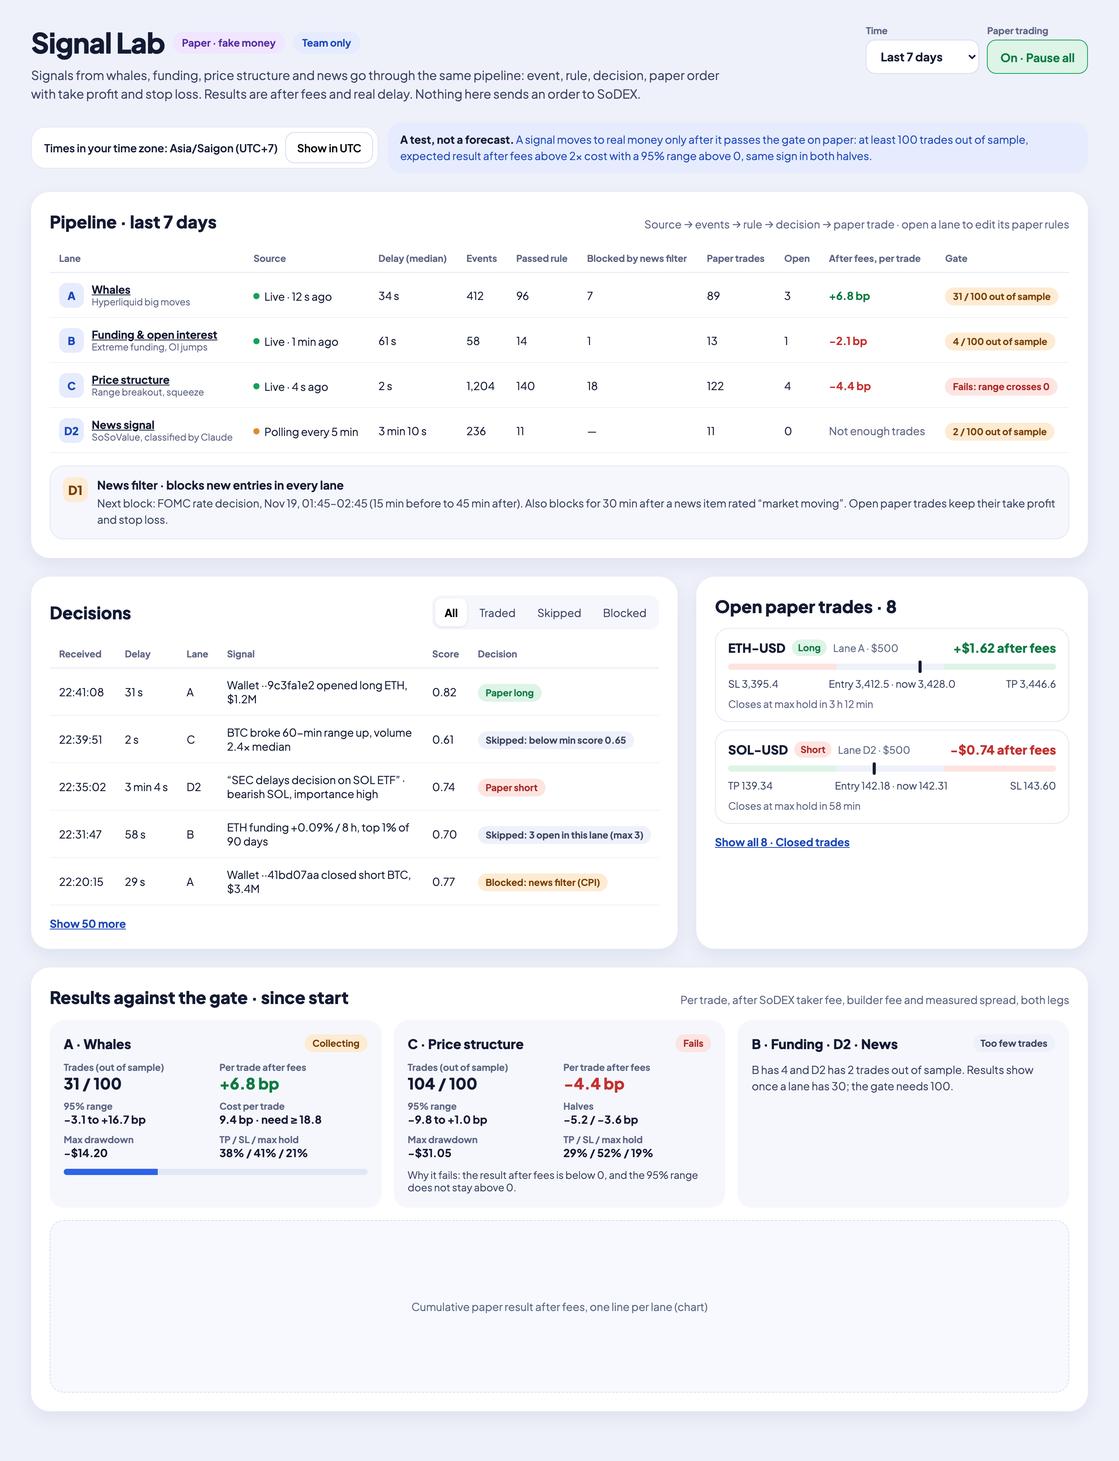
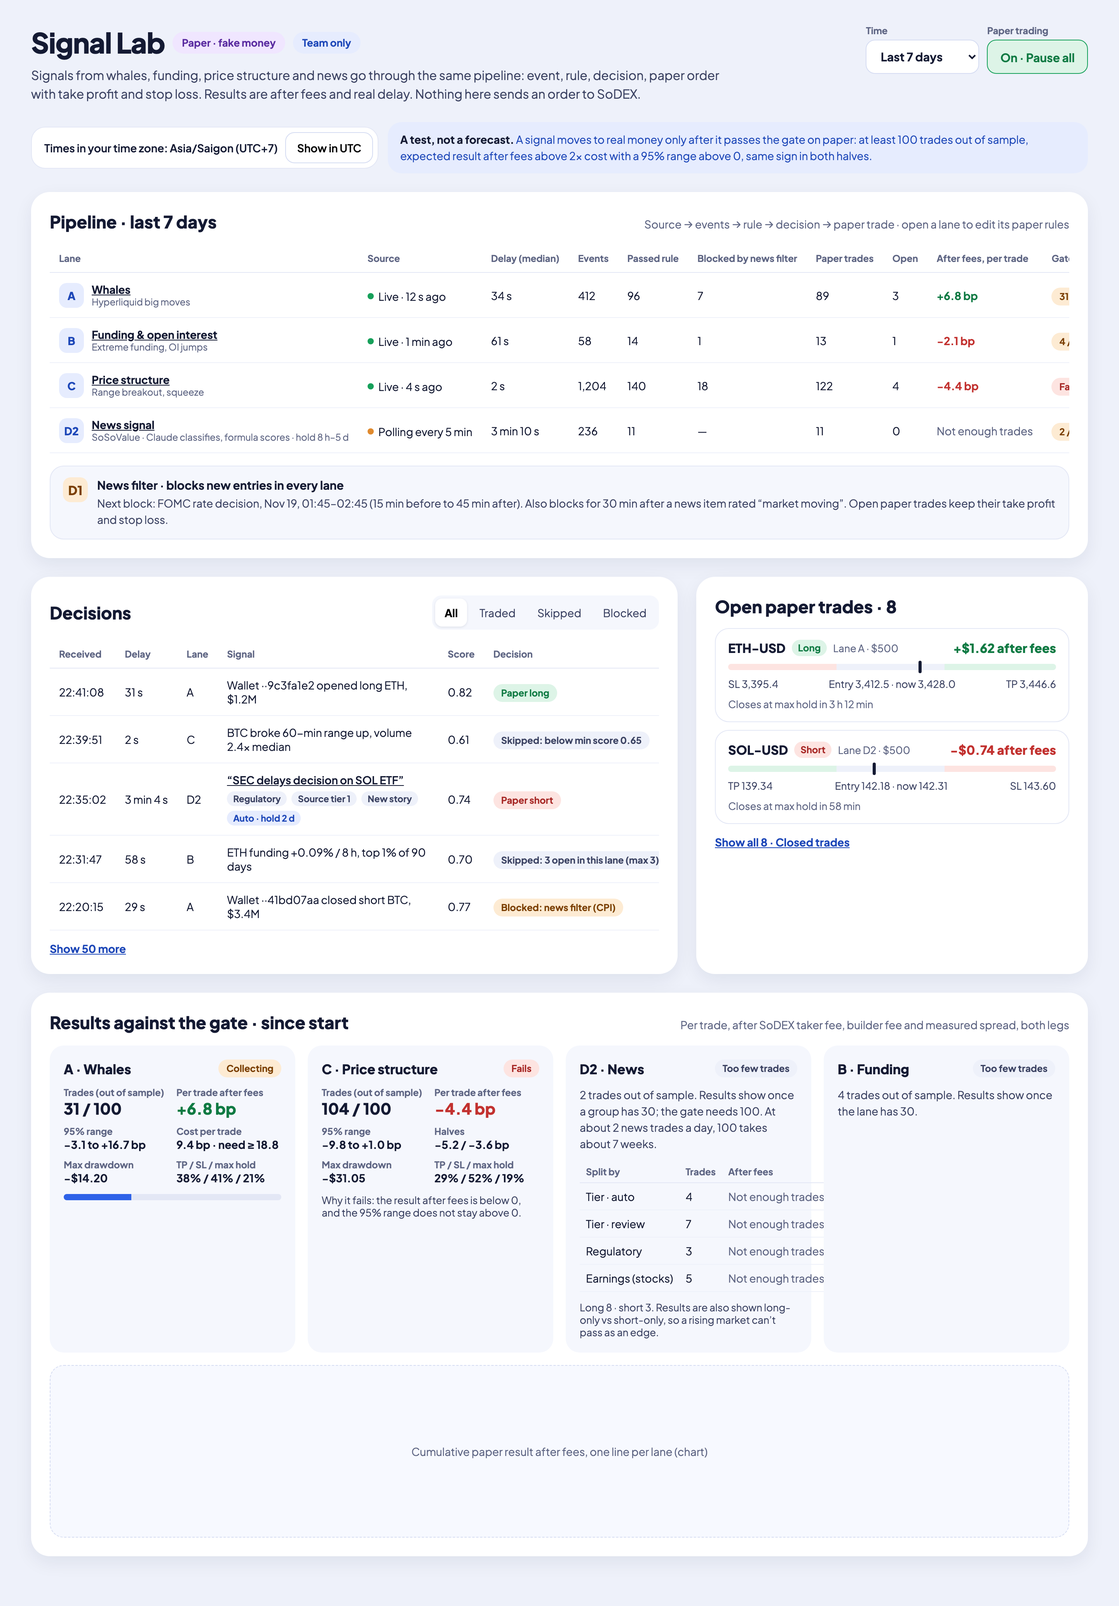
docs(mockups): Signal Lab v2, news lane detail and rules (#269)

diff --git a/docs/mockups/signal-lab/signal-detail.html b/docs/mockups/signal-lab/signal-detail.html
@@ -1,0 +1,117 @@
+<!doctype html>
+<html lang="en">
+<head>
+<meta charset="utf-8">
+<title>News signal detail</title>
+
+</head>
+<body>
+
+
+<link rel="stylesheet" href="https://fonts.googleapis.com/css2?family=Plus+Jakarta+Sans:wght@400;500;600;700;800&amp;display=swap">
+<style>
+body{margin:0}
+a{color:#1d47b8}a:hover{color:#2e62e8}
+table{border-collapse:collapse;width:100%}
+th{font-size:12px;font-weight:700;color:#5f6684;text-align:left;padding:8px 10px;border-bottom:1px solid #e3e7f5}
+td{font-size:14px;padding:10px;border-bottom:1px solid #eef1fa}
+.k{font-size:12px;font-weight:700;color:#5f6684}
+.v{font-size:15px;font-weight:700}
+</style>
+
+<div style="width:1040px;height:1500px;box-sizing:border-box;background:#eef1fa;font-family:'Plus Jakarta Sans',ui-sans-serif,system-ui,sans-serif;color:#141a33;padding:28px;display:flex;flex-direction:column;gap:18px">
+  <div style="display:flex;justify-content:space-between;align-items:flex-start;gap:12px">
+    <div style="display:flex;flex-direction:column;gap:6px">
+      <a href="Main.dc.html" style="font-size:14px;font-weight:700">← Signal Lab</a>
+      <h2 style="margin:0;font-size:26px;font-weight:800;line-height:1.25">“SEC delays decision on SOL ETF”</h2>
+      <div style="display:flex;gap:6px;flex-wrap:wrap">
+        <span style="background:#e6ecfe;color:#1d47b8;font-size:12px;font-weight:700;padding:4px 10px;border-radius:999px">D2 · News</span>
+        <span style="background:#fde4e1;color:#a72826;font-size:12px;font-weight:700;padding:4px 10px;border-radius:999px">Short SOL-USD</span>
+        <span style="background:#e6ecfe;color:#1d47b8;font-size:12px;font-weight:700;padding:4px 10px;border-radius:999px">Tier auto</span>
+        <span style="background:#ddf4e7;color:#0f7a43;font-size:12px;font-weight:700;padding:4px 10px;border-radius:999px">Closed · take profit</span>
+      </div>
+    </div>
+    <div style="text-align:right;display:flex;flex-direction:column;gap:4px">
+      <span class="k">Result after fees</span>
+      <span style="font-size:28px;font-weight:800;color:#0f7a43">+$9.42</span>
+      <span style="font-size:13px;color:#3b4262">+188 bp on $500 · fees and spread −$1.06</span>
+    </div>
+  </div>
+
+  <!-- Timeline -->
+  <section aria-labelledby="tl" style="background:#fff;border-radius:24px;padding:20px;display:flex;flex-direction:column;gap:12px">
+    <h3 id="tl" style="margin:0;font-size:17px;font-weight:800">Timeline</h3>
+    <div style="display:grid;grid-template-columns:repeat(5,minmax(0,1fr));gap:10px">
+      <div style="background:#f5f7fd;border-radius:14px;padding:12px;display:flex;flex-direction:column;gap:4px"><span class="k">News released</span><span class="v">22:31:58</span><span style="font-size:12px;color:#5f6684">SoSoValue · source tier 1</span></div>
+      <div style="background:#f5f7fd;border-radius:14px;padding:12px;display:flex;flex-direction:column;gap:4px"><span class="k">DeskLabs received</span><span class="v">22:35:02</span><span style="font-size:12px;color:#5f6684">Delay 3 min 4 s</span></div>
+      <div style="background:#f5f7fd;border-radius:14px;padding:12px;display:flex;flex-direction:column;gap:4px"><span class="k">Classified</span><span class="v">22:35:05</span><span style="font-size:12px;color:#5f6684">Claude · cached prompt</span></div>
+      <div style="background:#f5f7fd;border-radius:14px;padding:12px;display:flex;flex-direction:column;gap:4px"><span class="k">Paper entry</span><span class="v">22:35:06</span><span style="font-size:12px;color:#5f6684">Short at 142.18, taker</span></div>
+      <div style="background:#f5f7fd;border-radius:14px;padding:12px;display:flex;flex-direction:column;gap:4px"><span class="k">Closed</span><span class="v">Nov 20, 09:12</span><span style="font-size:12px;color:#5f6684">Take profit 139.34 · held 1 d 10 h</span></div>
+    </div>
+    <div style="font-size:14px;color:#3b4262">Sources: <a href="#tl">SoSoValue article</a> · <a href="#tl">original post</a> · story ··a91c (3 articles, this was the first)</div>
+  </section>
+
+  <div style="display:flex;gap:18px;flex-wrap:wrap">
+    <!-- Classification -->
+    <section aria-labelledby="cl" style="flex:1 1 420px;min-width:0;background:#fff;border-radius:24px;padding:20px;display:flex;flex-direction:column;gap:12px">
+      <h3 id="cl" style="margin:0;font-size:17px;font-weight:800">What Claude classified</h3>
+      <span style="font-size:13px;color:#5f6684">Claude only fills these fields. It never decides a trade.</span>
+      <div style="display:grid;grid-template-columns:repeat(2,minmax(0,1fr));gap:12px">
+        <div><div class="k">Asset</div><div class="v">SOL · relevance 1.0</div></div>
+        <div><div class="k">Direction</div><div class="v">Bearish</div></div>
+        <div><div class="k">Catalyst</div><div class="v">Regulatory statement</div></div>
+        <div><div class="k">Severity</div><div class="v">0.80</div></div>
+        <div><div class="k">Clarity</div><div class="v">0.90</div></div>
+        <div><div class="k">Promotional</div><div class="v">0.00</div></div>
+        <div><div class="k">New story</div><div class="v">Yes · 0 similar in 24 h</div></div>
+        <div><div class="k">Conflicts</div><div class="v">None open on SOL</div></div>
+      </div>
+      <div style="background:#f5f7fd;border-radius:14px;padding:12px;font-size:14px;color:#3b4262;line-height:1.5">“The SEC pushed back its decision on spot SOL ETFs. A delay removes a near-term buying catalyst the market had priced in.”</div>
+    </section>
+
+    <!-- Score -->
+    <section aria-labelledby="sc" style="flex:1 1 420px;min-width:0;background:#fff;border-radius:24px;padding:20px;display:flex;flex-direction:column;gap:12px">
+      <h3 id="sc" style="margin:0;font-size:17px;font-weight:800">How the score was computed</h3>
+      <table>
+        <thead><tr><th>Part</th><th>Value</th><th>Weight</th><th>Adds</th></tr></thead>
+        <tbody>
+          <tr><td>Classification confidence</td><td>0.75</td><td>25</td><td>0.19</td></tr>
+          <tr><td>Tradable on SoDEX</td><td>0.90</td><td>20</td><td>0.18</td></tr>
+          <tr><td>Severity</td><td>0.80</td><td>15</td><td>0.12</td></tr>
+          <tr><td>Source tier</td><td>0.95</td><td>12</td><td>0.11</td></tr>
+          <tr><td>Clarity</td><td>0.90</td><td>10</td><td>0.09</td></tr>
+          <tr><td>Catalyst type</td><td>0.60</td><td>10</td><td>0.06</td></tr>
+          <tr><td>Novelty</td><td>1.00</td><td>8</td><td>0.08</td></tr>
+          <tr><td style="font-weight:800">Score</td><td></td><td></td><td style="font-weight:800">0.83</td></tr>
+        </tbody>
+      </table>
+      <div style="font-size:13px;color:#3b4262;line-height:1.5">Tier: <b>auto</b> (score ≥ 0.70). 0.55–0.70 is review, below 0.55 is suppressed. Weights are rule v2 of this lane; the gate counts one version only.</div>
+    </section>
+  </div>
+
+  <!-- Decision and order -->
+  <section aria-labelledby="dc" style="background:#fff;border-radius:24px;padding:20px;display:flex;flex-direction:column;gap:12px">
+    <h3 id="dc" style="margin:0;font-size:17px;font-weight:800">Decision and paper order</h3>
+    <div style="display:grid;grid-template-columns:repeat(6,minmax(0,1fr));gap:12px">
+      <div><div class="k">Decision</div><div class="v">Paper short</div></div>
+      <div><div class="k">Size</div><div class="v">500 USDC</div></div>
+      <div><div class="k">Entry</div><div class="v">142.18</div></div>
+      <div><div class="k">Take profit</div><div class="v">139.34 (−2.0%)</div></div>
+      <div><div class="k">Stop loss</div><div class="v">143.60 (+1.0%)</div></div>
+      <div><div class="k">Max hold</div><div class="v">2 d</div></div>
+    </div>
+    <div style="font-size:13px;color:#3b4262;line-height:1.5">TP and SL come from SOL’s 2-day volatility (TP 1.5×, SL 0.75×), not a fixed %. Checks passed: D1 news filter clear · 1 open in this lane (max 3) · no open SOL trade in another lane.</div>
+    <div aria-hidden="true" style="position:relative;height:10px;border-radius:99px;background:linear-gradient(90deg,#ddf4e7 0 33%,#eef1fa 33% 66%,#fde4e1 66% 100%)"><span style="position:absolute;left:4%;top:-4px;width:4px;height:18px;border-radius:2px;background:#141a33"></span></div>
+    <div style="display:flex;justify-content:space-between;font-size:13px;color:#3b4262"><span>TP 139.34 · closed here</span><span>Entry 142.18</span><span>SL 143.60</span></div>
+    <div style="display:grid;grid-template-columns:repeat(4,minmax(0,1fr));gap:12px;border-top:1px solid #eef1fa;padding-top:12px">
+      <div><div class="k">Best move for us (MFE)</div><div class="v">+2.4%</div></div>
+      <div><div class="k">Worst move against (MAE)</div><div class="v">−0.4%</div></div>
+      <div><div class="k">Same time, random entry</div><div class="v">−0.1% avg</div></div>
+      <div><div class="k">Later news on this story</div><div class="v">2 articles · no new trade</div></div>
+    </div>
+  </section>
+</div>
+
+
+</body>
+</html>

diff --git a/docs/mockups/signal-lab/main.html b/docs/mockups/signal-lab/main.html
@@ -82,7 +82,7 @@ td{font-size:14px;color:#141a33;padding:12px;border-bottom:1px solid #eef1fa;whi
         <td><span style="background:#fde4e1;color:#a72826;font-size:12px;font-weight:700;padding:4px 10px;border-radius:999px">Fails: range crosses 0</span></td>
       </tr>
       <tr>
-        <td><div style="display:flex;gap:10px;align-items:center"><span style="display:inline-flex;width:32px;height:32px;border-radius:10px;background:#e6ecfe;color:#1d47b8;font-weight:800;align-items:center;justify-content:center">D2</span><div><div style="font-weight:700"><a href="Rules.dc.html" style="color:#141a33">News signal</a></div><div style="font-size:12px;color:#5f6684">SoSoValue, classified by Claude</div></div></div></td>
+        <td><div style="display:flex;gap:10px;align-items:center"><span style="display:inline-flex;width:32px;height:32px;border-radius:10px;background:#e6ecfe;color:#1d47b8;font-weight:800;align-items:center;justify-content:center">D2</span><div><div style="font-weight:700"><a href="Rules.dc.html" style="color:#141a33">News signal</a></div><div style="font-size:12px;color:#5f6684">SoSoValue · Claude classifies, formula scores · hold 8 h–5 d</div></div></div></td>
         <td><span style="display:inline-flex;gap:6px;align-items:center"><span style="width:8px;height:8px;border-radius:99px;background:#e08a2e"></span>Polling every 5 min</span></td>
         <td>3 min 10 s</td><td>236</td><td>11</td><td>—</td><td>11</td><td>0</td>
         <td style="color:#5f6684">Not enough trades</td>
@@ -118,7 +118,7 @@ td{font-size:14px;color:#141a33;padding:12px;border-bottom:1px solid #eef1fa;whi
     <tbody>
       <tr><td>22:41:08</td><td>31 s</td><td>A</td><td style="white-space:normal;min-width:240px">Wallet ··9c3fa1e2 opened long ETH, $1.2M</td><td>0.82</td><td><span style="background:#ddf4e7;color:#0f7a43;font-size:12px;font-weight:700;padding:4px 10px;border-radius:999px">Paper long</span></td><td>ETH-USD · entry 3,412.5 · TP 3,446.6 · SL 3,395.4</td></tr>
       <tr><td>22:39:51</td><td>2 s</td><td>C</td><td style="white-space:normal;min-width:240px">BTC broke 60-min range up, volume 2.4× median</td><td>0.61</td><td><span style="background:#eef1fa;color:#3b4262;font-size:12px;font-weight:700;padding:4px 10px;border-radius:999px">Skipped: below min score 0.65</span></td><td style="color:#5f6684">—</td></tr>
-      <tr><td>22:35:02</td><td>3 min 4 s</td><td>D2</td><td style="white-space:normal;min-width:240px">“SEC delays decision on SOL ETF” · bearish SOL, importance high</td><td>0.74</td><td><span style="background:#fde4e1;color:#a72826;font-size:12px;font-weight:700;padding:4px 10px;border-radius:999px">Paper short</span></td><td>SOL-USD · entry 142.18 · TP 139.34 · SL 143.60</td></tr>
+      <tr><td>22:35:02</td><td>3 min 4 s</td><td>D2</td><td style="white-space:normal;min-width:260px"><a href="SignalDetail.dc.html" style="color:#141a33;font-weight:600">“SEC delays decision on SOL ETF”</a><div style="display:flex;gap:6px;flex-wrap:wrap;margin-top:6px"><span style="background:#eef1fa;color:#3b4262;font-size:11.5px;font-weight:700;padding:2px 8px;border-radius:999px">Regulatory</span><span style="background:#eef1fa;color:#3b4262;font-size:11.5px;font-weight:700;padding:2px 8px;border-radius:999px">Source tier 1</span><span style="background:#eef1fa;color:#3b4262;font-size:11.5px;font-weight:700;padding:2px 8px;border-radius:999px">New story</span><span style="background:#e6ecfe;color:#1d47b8;font-size:11.5px;font-weight:700;padding:2px 8px;border-radius:999px">Auto · hold 2 d</span></div></td><td>0.74</td><td><span style="background:#fde4e1;color:#a72826;font-size:12px;font-weight:700;padding:4px 10px;border-radius:999px">Paper short</span></td><td>SOL-USD · entry 142.18 · TP 139.34 · SL 143.60</td></tr>
       <tr><td>22:31:47</td><td>58 s</td><td>B</td><td style="white-space:normal;min-width:240px">ETH funding +0.09% / 8 h, top 1% of 90 days</td><td>0.70</td><td><span style="background:#eef1fa;color:#3b4262;font-size:12px;font-weight:700;padding:4px 10px;border-radius:999px">Skipped: 3 open in this lane (max 3)</span></td><td style="color:#5f6684">—</td></tr>
       <tr><td>22:20:15</td><td>29 s</td><td>A</td><td style="white-space:normal;min-width:240px">Wallet ··41bd07aa closed short BTC, $3.4M</td><td>0.77</td><td><span style="background:#fdebd3;color:#7a3e00;font-size:12px;font-weight:700;padding:4px 10px;border-radius:999px">Blocked: news filter (CPI)</span></td><td style="color:#5f6684">—</td></tr>
     </tbody>
@@ -185,8 +185,22 @@ td{font-size:14px;color:#141a33;padding:12px;border-bottom:1px solid #eef1fa;whi
       <div style="font-size:13px;color:#3b4262">Why it fails: the result after fees is below 0, and the 95% range does not stay above 0.</div>
     </div>
     <div style="background:#f5f7fd;border-radius:18px;padding:18px;display:flex;flex-direction:column;gap:12px">
-      <div style="display:flex;justify-content:space-between;align-items:center"><span style="font-weight:800;font-size:17px">B · Funding · D2 · News</span><span style="background:#eef1fa;color:#3b4262;font-size:12px;font-weight:700;padding:4px 10px;border-radius:999px">Too few trades</span></div>
-      <p style="margin:0;font-size:14px;color:#3b4262;line-height:1.5">B has 4 and D2 has 2 trades out of sample. Results show once a lane has 30; the gate needs 100.</p>
+      <div style="display:flex;justify-content:space-between;align-items:center"><span style="font-weight:800;font-size:17px">D2 · News</span><span style="background:#eef1fa;color:#3b4262;font-size:12px;font-weight:700;padding:4px 10px;border-radius:999px">Too few trades</span></div>
+      <p style="margin:0;font-size:14px;color:#3b4262;line-height:1.5">2 trades out of sample. Results show once a group has 30; the gate needs 100. At about 2 news trades a day, 100 takes about 7 weeks.</p>
+      <table>
+        <thead><tr><th style="padding:6px 8px">Split by</th><th style="padding:6px 8px">Trades</th><th style="padding:6px 8px">After fees</th></tr></thead>
+        <tbody>
+          <tr><td style="padding:8px">Tier · auto</td><td style="padding:8px">4</td><td style="padding:8px;color:#5f6684">Not enough trades</td></tr>
+          <tr><td style="padding:8px">Tier · review</td><td style="padding:8px">7</td><td style="padding:8px;color:#5f6684">Not enough trades</td></tr>
+          <tr><td style="padding:8px">Regulatory</td><td style="padding:8px">3</td><td style="padding:8px;color:#5f6684">Not enough trades</td></tr>
+          <tr><td style="padding:8px">Earnings (stocks)</td><td style="padding:8px">5</td><td style="padding:8px;color:#5f6684">Not enough trades</td></tr>
+        </tbody>
+      </table>
+      <span style="font-size:13px;color:#3b4262">Long 8 · short 3. Results are also shown long-only vs short-only, so a rising market can’t pass as an edge.</span>
+    </div>
+    <div style="background:#f5f7fd;border-radius:18px;padding:18px;display:flex;flex-direction:column;gap:12px">
+      <div style="display:flex;justify-content:space-between;align-items:center"><span style="font-weight:800;font-size:17px">B · Funding</span><span style="background:#eef1fa;color:#3b4262;font-size:12px;font-weight:700;padding:4px 10px;border-radius:999px">Too few trades</span></div>
+      <p style="margin:0;font-size:14px;color:#3b4262;line-height:1.5">4 trades out of sample. Results show once the lane has 30.</p>
     </div>
   </div>
   <div style="background:#f7f9ff;border:1px dashed #d5dcf2;border-radius:18px;height:220px;display:flex;align-items:center;justify-content:center;color:#5f6684;font-size:14px" role="img" aria-label="Chart: cumulative paper result after fees per lane over time">Cumulative paper result after fees, one line per lane (chart)</div>

diff --git a/docs/mockups/signal-lab/rules-news.html b/docs/mockups/signal-lab/rules-news.html
@@ -1,0 +1,95 @@
+<!doctype html>
+<html lang="en">
+<head>
+<meta charset="utf-8">
+<title>Paper rules · News</title>
+
+</head>
+<body>
+
+
+<link rel="stylesheet" href="https://fonts.googleapis.com/css2?family=Plus+Jakarta+Sans:wght@400;500;600;700;800&amp;display=swap">
+<style>
+body{margin:0}
+a{color:#1d47b8}a:hover{color:#2e62e8}
+label{display:flex;flex-direction:column;gap:6px;font-size:13px;font-weight:700;color:#3b4262}
+input,select{height:44px;border:1px solid #d5dcf2;border-radius:12px;padding:0 14px;font:inherit;font-size:15px;font-weight:500;color:#141a33;background:#fff;box-sizing:border-box;width:100%}
+.hint{font-size:12px;font-weight:500;color:#5f6684}
+.chip{display:inline-flex;align-items:center;gap:6px;height:36px;padding:0 12px;border-radius:999px;border:1px solid #d5dcf2;background:#fff;font:inherit;font-size:13px;font-weight:600;color:#141a33}
+.chip[aria-pressed="true"]{background:#e6ecfe;border-color:#8fb0ff;color:#1d47b8}
+</style>
+
+<div style="width:560px;height:1320px;box-sizing:border-box;background:#fff;font-family:'Plus Jakarta Sans',ui-sans-serif,system-ui,sans-serif;color:#141a33;padding:28px;display:flex;flex-direction:column;gap:18px;border-left:1px solid #e3e7f5">
+  <div style="display:flex;justify-content:space-between;align-items:flex-start;gap:12px">
+    <div style="display:flex;flex-direction:column;gap:6px">
+      <span style="font-size:13px;font-weight:700;color:#5a2ca0">Paper rules · Lane D2</span>
+      <h2 style="margin:0;font-size:24px;font-weight:800">News signal</h2>
+      <span style="font-size:14px;color:#5f6684">Rule v2 · SoSoValue news, classified by Claude, scored by formula</span>
+    </div>
+    <a href="Main.dc.html" aria-label="Close" style="display:inline-flex;width:44px;height:44px;border-radius:12px;border:1px solid #e3e7f5;align-items:center;justify-content:center;color:#3b4262;text-decoration:none"><svg width="18" height="18" viewBox="0 0 24 24" fill="none" stroke="currentColor" stroke-width="2" aria-hidden="true"><path d="M6 6l12 12M18 6L6 18"/></svg></a>
+  </div>
+
+  <div style="display:flex;justify-content:space-between;align-items:center;background:#f5f7fd;border-radius:18px;padding:14px 16px;gap:12px">
+    <div style="display:flex;flex-direction:column;gap:2px"><span style="font-weight:700">Trade this lane on paper</span><span class="hint">Off: news is still collected, classified and scored.</span></div>
+    <button type="button" aria-pressed="true" style="height:44px;min-width:72px;border:1px solid #16a05a;background:#ddf4e7;color:#0f7a43;border-radius:12px;font:inherit;font-weight:700">On</button>
+  </div>
+
+  <div style="display:flex;flex-direction:column;gap:8px">
+    <span style="font-size:15px;font-weight:800">Which signals trade</span>
+    <div style="display:grid;grid-template-columns:repeat(2,minmax(0,1fr));gap:14px">
+      <label>Tiers that trade<select><option>Auto and review</option><option>Auto only</option></select><span class="hint">Both trade on paper; results are split by tier</span></label>
+      <label>Min source tier<select><option>Tier 2 or better</option><option>Tier 1 only</option></select></label>
+      <label>Max promotional<input value="0.30"></label>
+      <label>Min relevance to asset<input value="0.70"></label>
+    </div>
+    <span class="k" style="font-size:13px;font-weight:700;color:#3b4262;margin-top:4px">Catalyst types</span>
+    <div style="display:flex;gap:8px;flex-wrap:wrap">
+      <button type="button" class="chip" aria-pressed="true">Regulatory</button>
+      <button type="button" class="chip" aria-pressed="true">Earnings</button>
+      <button type="button" class="chip" aria-pressed="true">Treasury buys</button>
+      <button type="button" class="chip" aria-pressed="true">Listings</button>
+      <button type="button" class="chip" aria-pressed="true">Partnerships</button>
+      <button type="button" class="chip" aria-pressed="false">Tech updates</button>
+      <button type="button" class="chip" aria-pressed="false">Macro prints</button>
+    </div>
+    <span class="hint">Macro prints are handled by the D1 filter by default.</span>
+  </div>
+
+  <div style="display:flex;flex-direction:column;gap:8px">
+    <span style="font-size:15px;font-weight:800">Score weights</span>
+    <div style="display:grid;grid-template-columns:repeat(4,minmax(0,1fr));gap:10px">
+      <label>Confidence<input value="25"></label>
+      <label>Tradable<input value="20"></label>
+      <label>Severity<input value="15"></label>
+      <label>Source<input value="12"></label>
+      <label>Clarity<input value="10"></label>
+      <label>Catalyst<input value="10"></label>
+      <label>Novelty<input value="8"></label>
+      <label>Auto from<input value="0.70"></label>
+    </div>
+    <span class="hint">Weights add up to 100. Review tier from 0.55; below that the signal is recorded but not traded.</span>
+  </div>
+
+  <div style="display:flex;flex-direction:column;gap:8px">
+    <span style="font-size:15px;font-weight:800">Size, exits and limits</span>
+    <div style="display:grid;grid-template-columns:repeat(2,minmax(0,1fr));gap:14px">
+      <label>Size per trade<input value="500 USDC"></label>
+      <label>Max open in this lane<input value="3"></label>
+      <label>Take profit<select><option>1.5 × volatility of the hold</option><option>Fixed %</option></select></label>
+      <label>Stop loss<select><option>0.75 × volatility of the hold</option><option>Fixed %</option></select></label>
+      <label>Max hold<select><option>From the signal (8 h–5 d)</option><option>Fixed</option></select></label>
+      <label>Same story<select><option>One trade per story</option><option>Allow a new trade if it flips</option></select></label>
+    </div>
+    <span class="hint">A newer signal on the same asset in the opposite direction closes the open trade (superseded); same direction keeps it.</span>
+  </div>
+
+  <div style="display:flex;gap:10px;align-items:center;justify-content:flex-end;margin-top:auto;flex-wrap:wrap">
+    <span class="hint" style="flex:1 1 200px">Saving creates rule v3. The gate counts only one version.</span>
+    <a href="Main.dc.html" style="display:inline-flex;height:44px;align-items:center;padding:0 18px;border-radius:12px;border:1px solid #d5dcf2;color:#141a33;font-weight:700;text-decoration:none">Cancel</a>
+    <button type="button" style="height:44px;padding:0 18px;border-radius:12px;border:0;background:#2e62e8;color:#fff;font:inherit;font-weight:700;box-shadow:0 6px 16px rgb(46 98 232 / .28)">Save as v3</button>
+  </div>
+</div>
+
+
+</body>
+</html>
